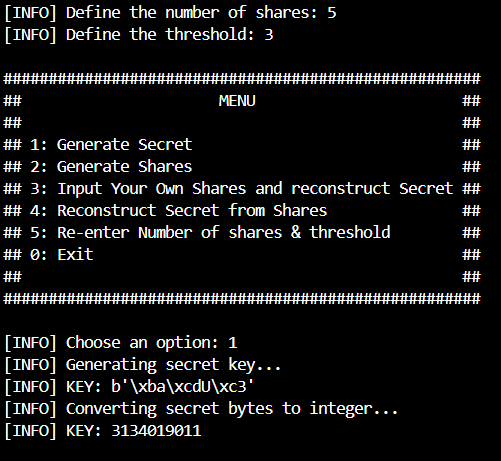
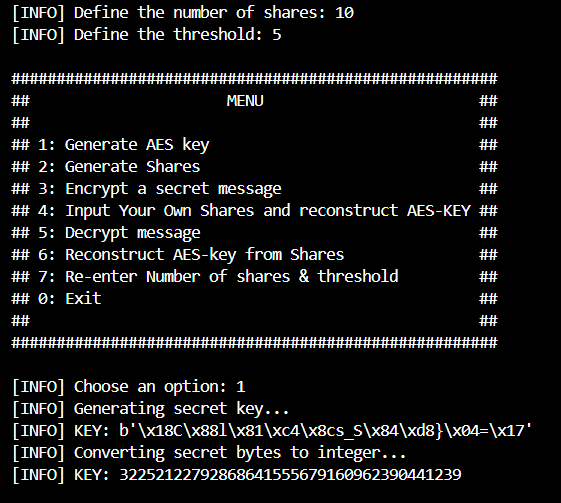
updating README

Changed region(s): [[0.0, 0.1215, 0.9581, 0.6985], [0.0, 0.7289, 0.9581, 0.9718], [0.0, 0.0, 0.6287, 0.0911]]

diff --git a/main.py b/main.py
@@ -15,7 +15,7 @@ while running:
 ######################################################
 ##                      MENU                        ##
 ##                                                  ##
-## 1: Generate Secret                               ##
+## 1: Generate AES key                              ##
 ## 2: Generate Shares                               ##
 ## 3: Encrypt a secret message                      ##
 ## 4: Input Your Own Shares and reconstruct AES-KEY ##

diff --git a/README.md b/README.md
@@ -14,13 +14,13 @@ You will be prompted to input 2 values in the beginning:
 
 You will be led to a menu of choices:
 
-## Option 1: Generate secret
+## Option 1: Generate AES key
 
-if you have no secret this option generates one for you it will use the AES python library to generate 4 random bytes
+if you have no AES key this option generates one for you it will use the AES python library to generate 16 random bytes
 
 ![Alt text](pictures/option1.png)
 
-The script sadly cant handel large numbers and the acuracy decreases the larger the secret is, this is due to when using large numbers, floating-point arithmetic can introduce rounding errors, which can result in a really similar recalculated key but the last few digits might be wrong, so far the script only seems to work with 4 byte secrets.
+
 
 ## Option 2: Generate Shares
 
@@ -28,27 +28,40 @@ This option generates 'n' shares (the number of shares you input earlier) from y
 
 ![Alt text](pictures/option2.png)
 
-## Option 3: Input Your Own Shares and reconstruct Secret
+## Option 3: Encrypt a secret message 
 
-This option allows you to input shares of a secret that you own to then calculate the original secret
-    
-
+This option encrypts a secret message you input using the AES key in memory
 
 ![Alt text](pictures/option3.png)
 
-*note:* Make sure the threshold is correct, you can change it with *option: 5*
+## Option 4: Input Your Own Shares and reconstruct AES-KEY
 
-## Option 4: Reconstruct Secret from Shares
+This option allows you to input shares of a secret AES key to then calculate the original secret
 
-This option reconstructs the secret from the shares that are saved in memory, eg. you just used option 1 and 2, the shares calculated are now stored in the class, this is used to test that the script can recalculate secrets from shares.
 
 ![Alt text](pictures/option4.png)
 
-## Option 5: Re-enter Number of shares & threshold
+*note:* Make sure the threshold is correct, you can change it with *option: 7*
+
+## Option 5: Decrypt message
+
+This option allows you to input the encrypted message to then decrypt it with the AES key
+
+![Alt text](pictures/option5.png)
+
+*note:* Make sure the AES key is calculated *option: 4* or an AES key is generated *option 1*
+
+## Option 6: Reconstruct AES-key from Shares 
+
+This option reconstructs the secret from the shares that are saved in memory, eg. you just used option 1 and 2, the shares calculated are now stored in the class, this is used to test that the script can recalculate secrets from shares.
+
+![Alt text](pictures/option6.png)
+
+## Option 7: Re-enter Number of shares & threshold
 
 This option allows you to re-enter the threshold amount needed to calculate a secret and the number of shares calculated from a secret
 
-![Alt text](pictures/option5.png)
+![Alt text](pictures/option7.png)
 
 sources:
     - https://mathworld.wolfram.com/LagrangeInterpolatingPolynomial.html
